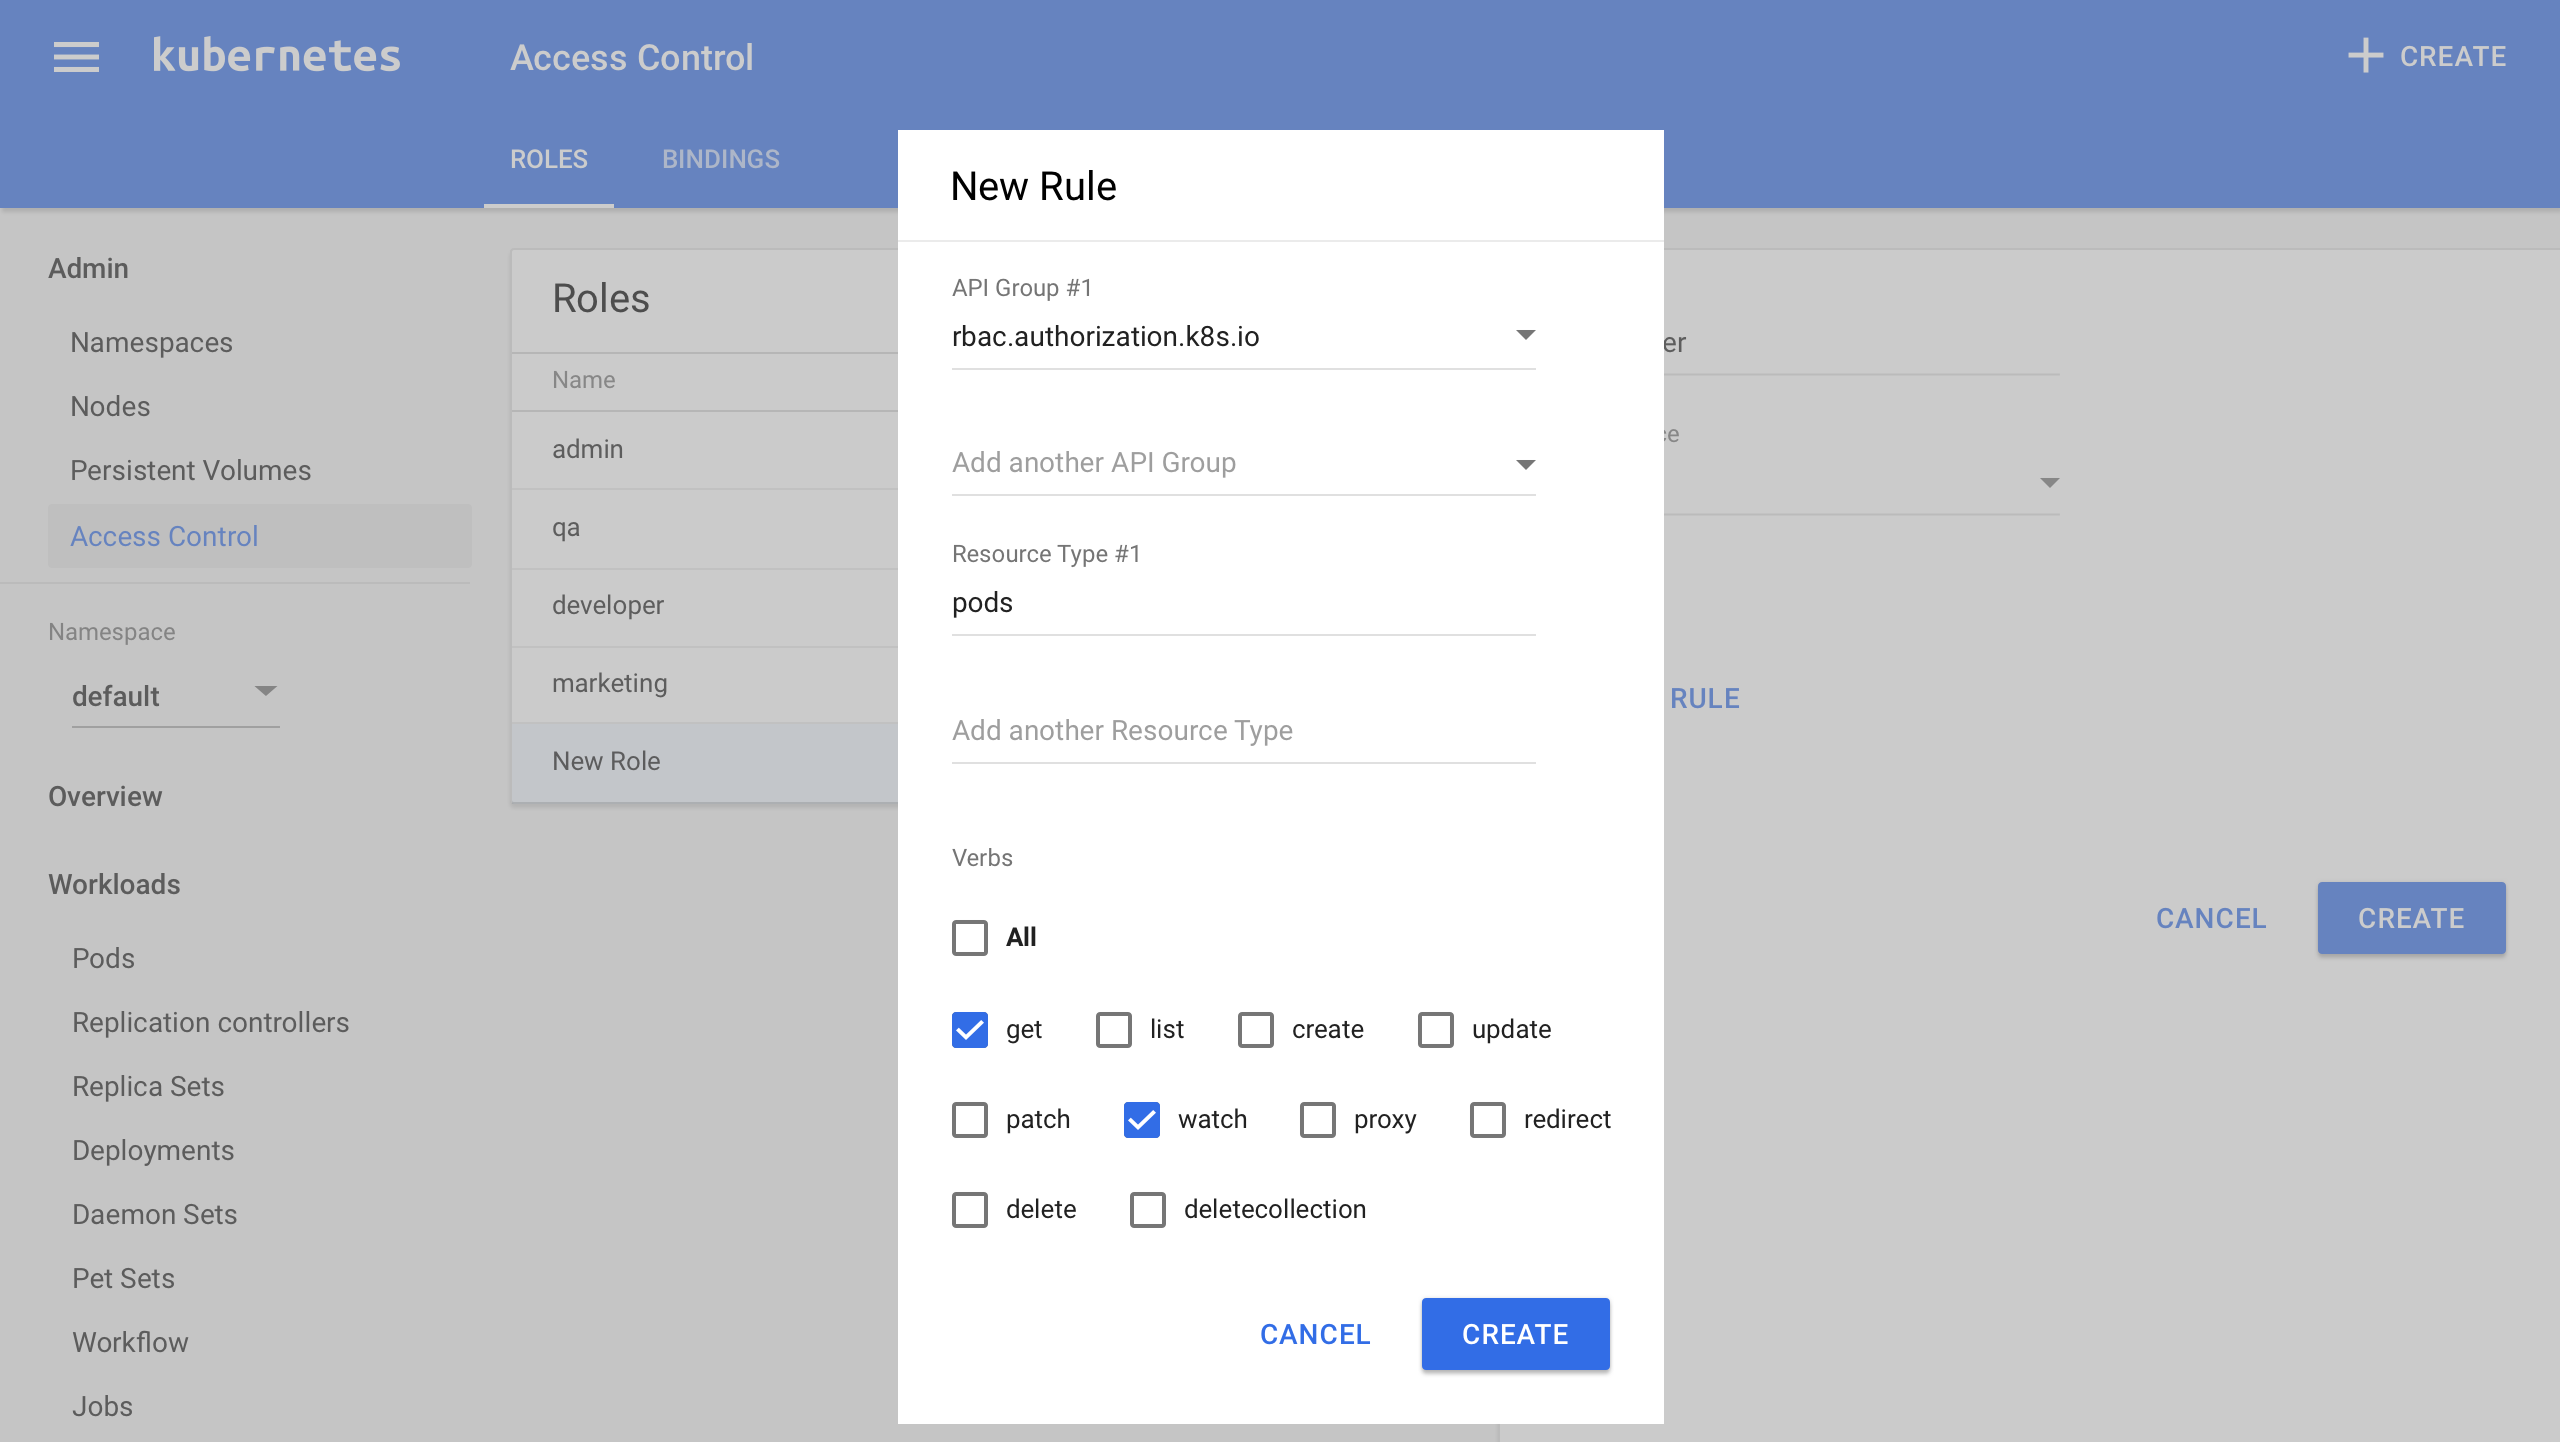
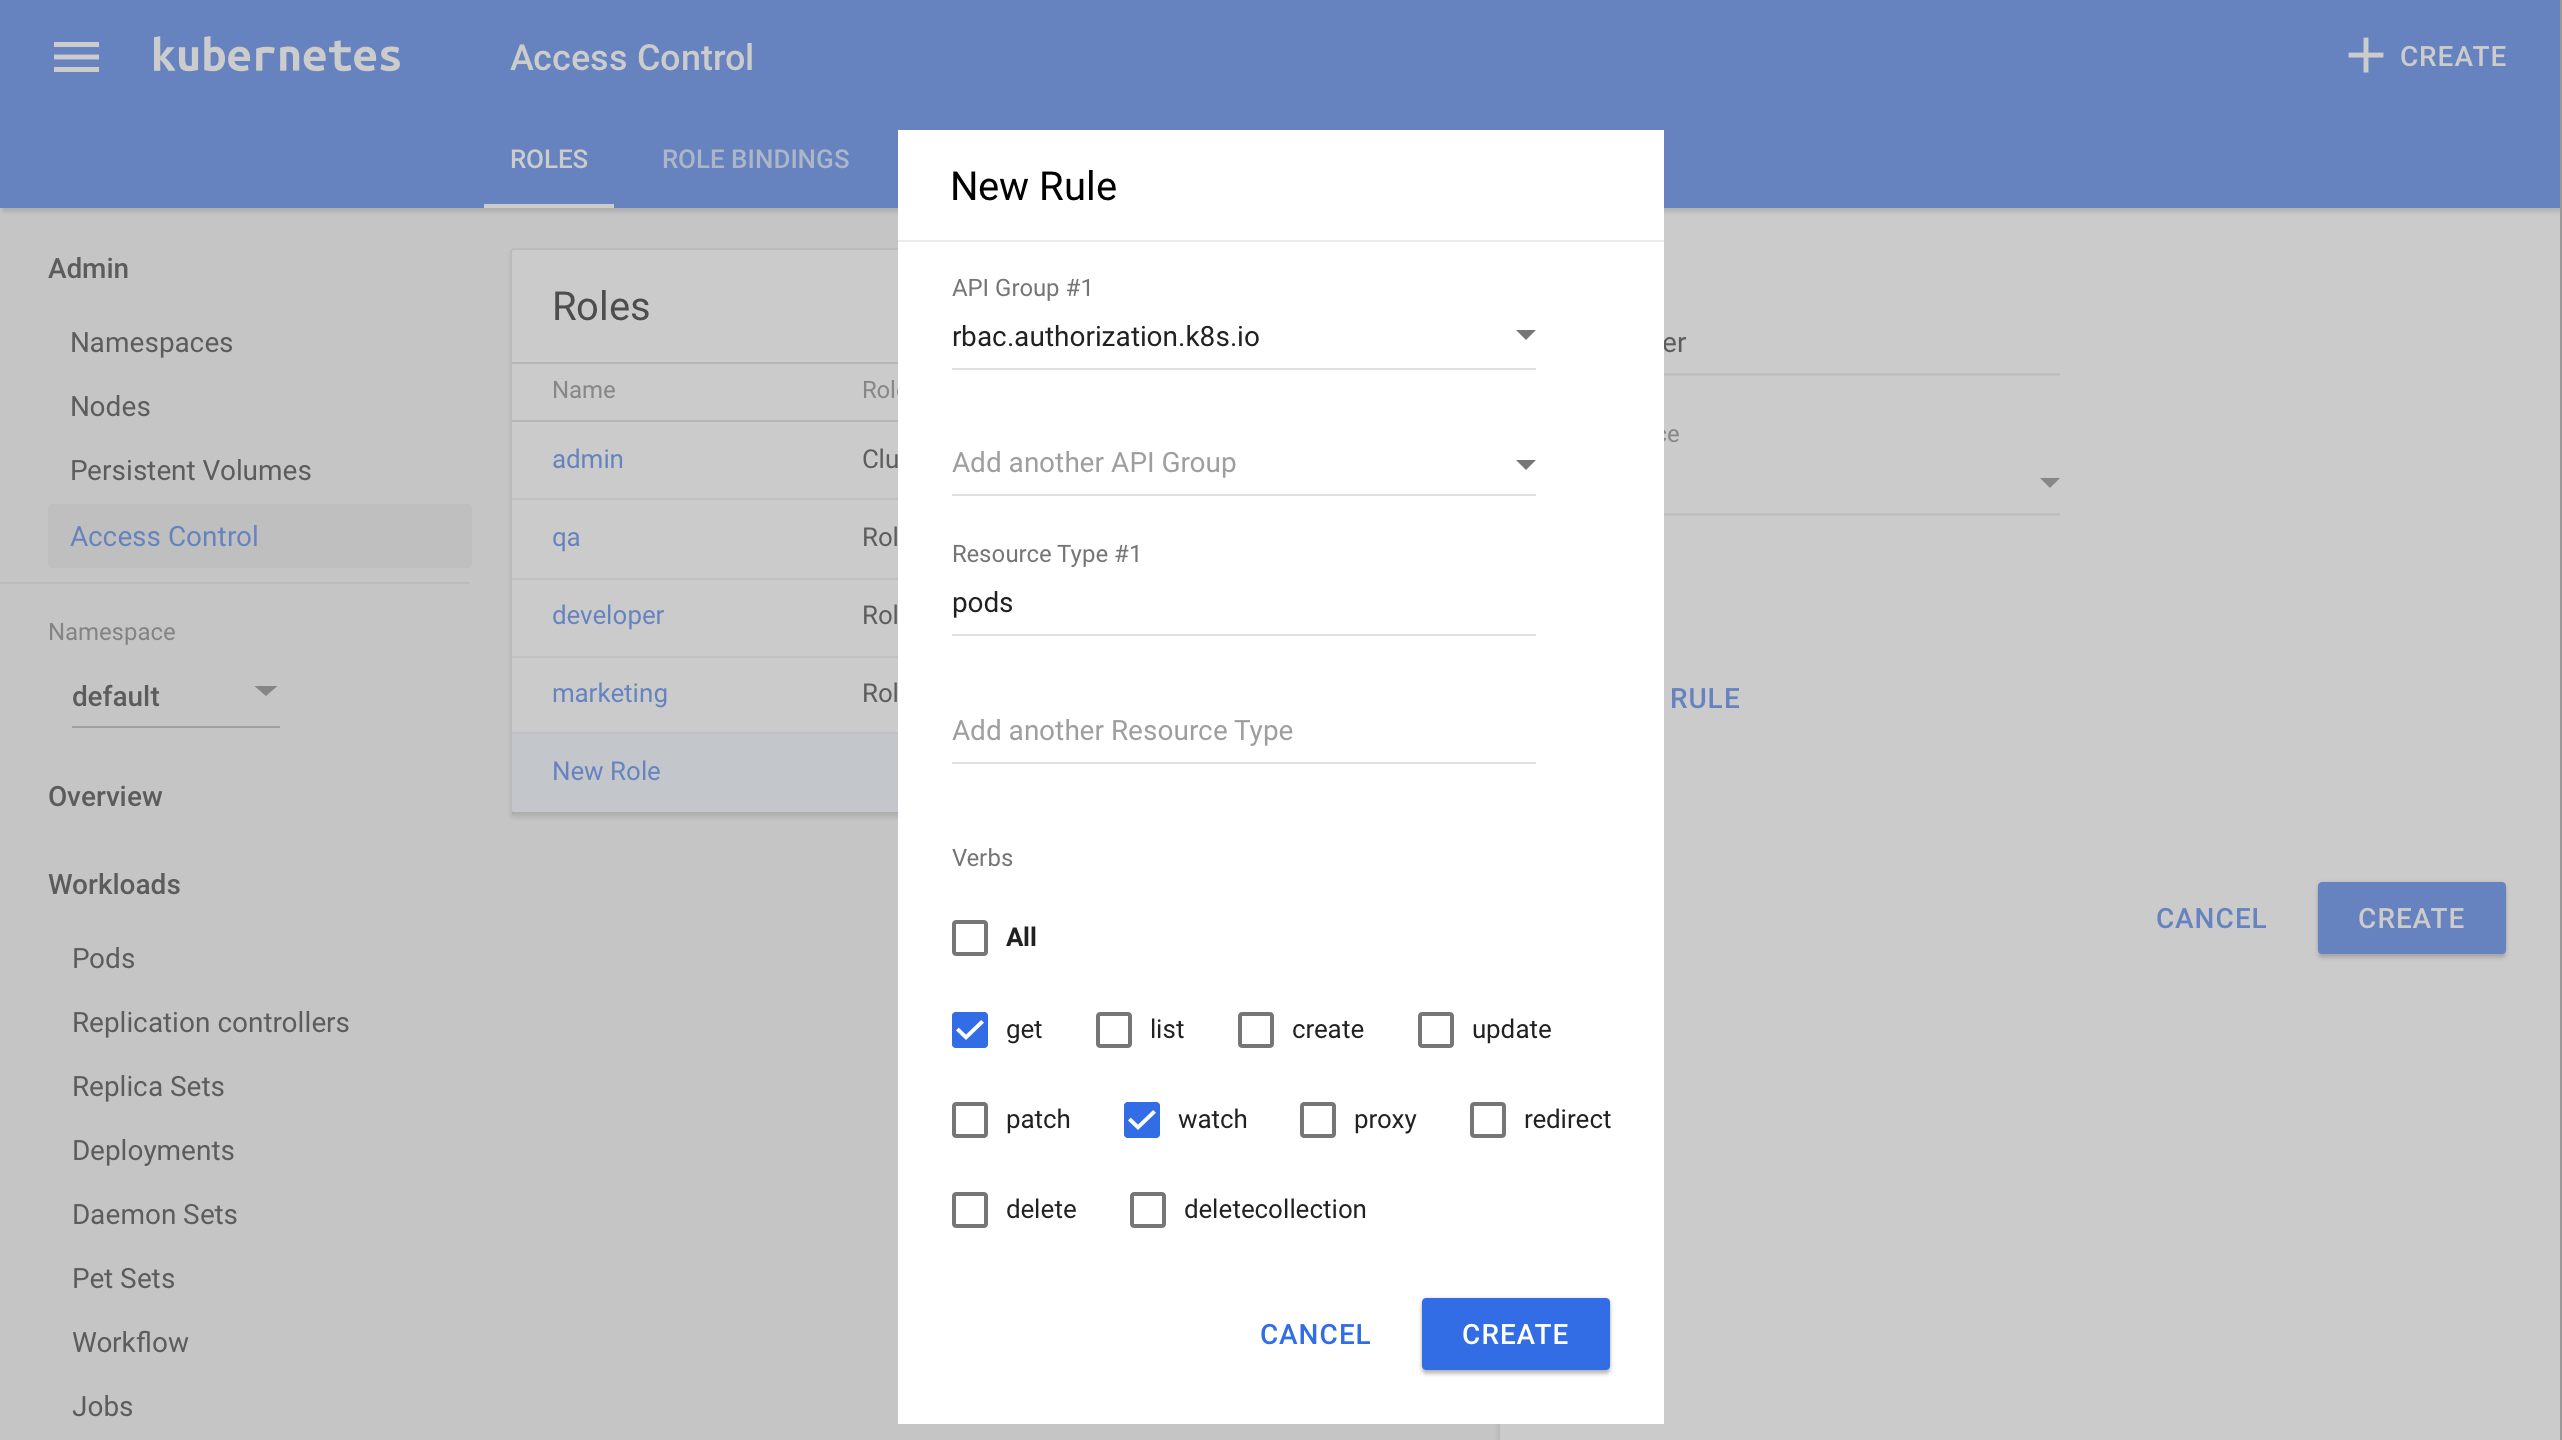
Updated screenshots

diff --git a/docs/design/access-control.md b/docs/design/access-control.md
@@ -69,10 +69,13 @@ can be arbitrary strings. Entering "*" indicates references __all__ resource typ
 
 ## Bind subjects to a role
 
-Clicking "+ CREATE BINDING" will open a dialog. After selecting the
+Clicking "+ CREATE ROLE BINDING" will open a dialog. After selecting the
 target role, adding subjects and selecting the namespace ("all namespaces" will create a ClusterRoleBinding), 
 clicking clicking "Create" will create the Binding and select that 
 Binding from the list, displaying its details in the panel on the right.
+
+NOTE: If a subject entered by the user exists or not can not be verified at the moment, so it is up to the 
+user to make sure the entered information is correct.
 
 ![Overview](mockups/21-11-2016-access-control/create-binding.png)
 
